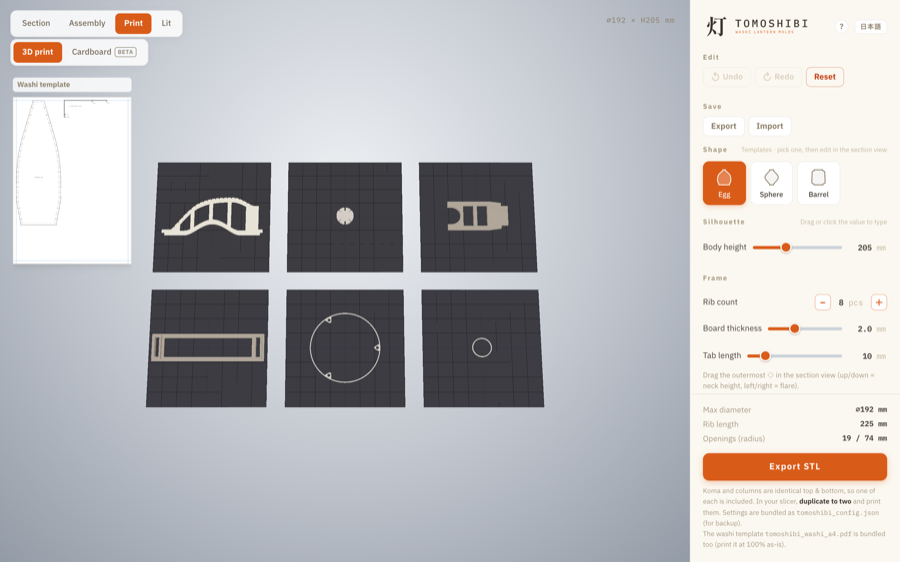
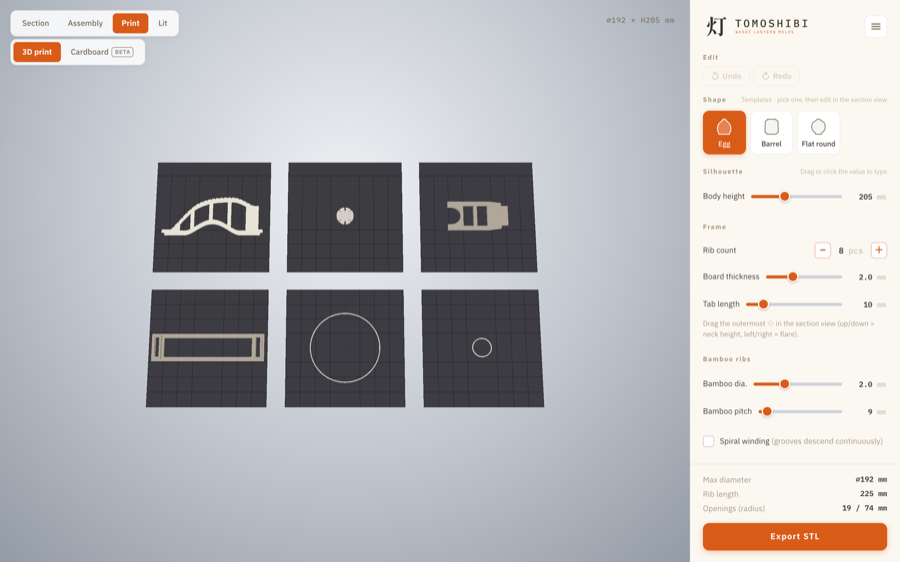
Retake the screenshots, and cut the README to what it still says truly
Every one of the four screenshots was from before the ☰: they showed a `Sphere`
preset that has been deleted, a `?` and a 日本語 toggle standing in the header,
Reset / Export / Import as buttons in the panel, the section legend inside the
drawing it explains, and a washi-template thumbnail the print view no longer
draws. Retaken at the same sizes; `lit.png` had not actually changed.

Four claims in the prose were wrong or stale for the same reason:

- the cardboard route prints the opening hoops too, as a line to bend 2mm wire
  along — it has not been "ribs + koma" since the hoops arrived;
- the first-visit card no longer explains that the shape on screen is the mold,
  because it now leads with the lantern instead;
- pages split downward ONLY, so a part wider than A4 does not fit at all, and
  the app says so — the README mentioned only the tall case;
- `/guide` is relative to wherever the app is mounted, not an absolute path.

The rest is trimming, and what went is mostly the app explaining itself twice:
twelve lines on how to bend a hanging wire, the washi template described in three
separate places, and the two beta routes as two sections with the same caveat at
the top of each. 186 → 162 lines.

Claude-Session: https://claude.ai/code/session_01Px4EQTXdB96zgTnwCMjzE9

diff --git a/README.md b/README.md
@@ -4,18 +4,16 @@
 
 # 灯 Tomoshibi — washi lantern molds
 
-A browser-based generator for the **3D-printable forming mold ("harigata")** used to
-build **washi paper lanterns** (paper lamps).
-
-Shape the lantern's silhouette parametrically in your browser, then export
-print-ready STL parts. No backend — everything runs client-side, and the build
-output is static files.
+A browser generator for the **3D-printable forming mold ("harigata")** that washi paper lanterns are
+built on. Shape the cross-section and it writes the print-ready STLs — or, with no printer, a
+full-scale A4 template for cutting the same mold out of cardboard. No backend: everything runs
+client-side and the build output is static files.
 
 > **灯 Tomoshibi** — 和紙提灯（紙のランプ）を自作するための
-> **3Dプリント用「張型（はりがた）」ジェネレーター**。ブラウザ上で断面を直接編集し、
-> 印刷用の STL を書き出せます。
+> **3Dプリント用「張型（はりがた）」ジェネレーター**。ブラウザ上で断面を編集すると STL が、
+> 3Dプリンタが無ければ原寸 A4 の段ボール型紙が出ます。
 
-**→ [Open the app](https://shunyakoide.github.io/tomoshibi/)** — nothing to install; it runs entirely in the browser.
+**→ [Open the app](https://shunyakoide.github.io/tomoshibi/)** — nothing to install.
 
 ![The section editor: an egg-shaped lantern profile with draggable control points, dimensions and a live rib outline](docs/screenshots/section.png)
 
@@ -30,26 +28,25 @@ output is static files.
 
 ## What it makes
 
-Real paper lanterns are made by **winding bamboo ribs around a mold, pasting washi
-over them, letting it dry, then disassembling the mold and pulling it out through the
-opening**. This app generates that mold as 3D-printable split parts.
+Real paper lanterns are made by **winding bamboo ribs around a mold, pasting washi over them,
+letting it dry, then taking the mold apart and pulling it out through the opening**. This app
+generates that mold as split parts you can make yourself.
 
 | Part | Role |
 | --- | --- |
-| **Rib (羽根板)** | The radial boards that form the mold surface (N of them, like orange segments). The outer edge carries the lamp-body curve and V-notch grooves for the bamboo ribs; both ends have tabs. |
-| **Koma / hub (コマ)** | Two identical gear-like hubs (top & bottom). Notches around the rim hold the rib tabs; the stand cradles them. |
-| **Stand (土台)** | A base that holds the assembled mold off the table with two U-shaped saddles, so it can be rotated while you work. |
-| **Opening rings (口輪)** | Thin flat hoops for the finished lantern's openings, which have no koma left in them, so the openings keep their shape. The **bottom one can carry leg sockets** (a checkbox, off by default) — three flat pads inside the hoop, each with a 6mm bore, for standing the finished lantern on legs of your own. Where the opening is too small for them it falls back to a plain hoop with a small tab on its inner rim, which tells the two apart once printed. |
+| **Rib (羽根板)** | The radial boards that form the mold surface (N of them, like orange segments). The outer edge carries the lamp-body curve and V-notch grooves for the bamboo; both ends have tabs. |
+| **Koma / hub (コマ)** | Two identical gear-like hubs, top and bottom. Notches around the rim hold the rib tabs. |
+| **Stand (土台)** | A base that holds the assembled mold off the table on two U-shaped saddles, so you can turn it while you work. 3D-print route only. |
+| **Opening rings (口輪)** | Thin hoops for the finished lantern's two openings, which keep their shape once the koma are gone. The **bottom one can carry leg sockets** (a checkbox, off by default): three pads with a ⌀6 bore, for legs you supply. Where the opening is too small for them it falls back to a plain hoop with a tab on its inner rim, which tells the two apart once made. |
 
 ### Features
 
-- **Direct-manipulation section editor** — drag control points to sculpt the silhouette; 3D preview and STL stay in exact agreement.
-- **A mold that comes back out** — a deep body on a small opening makes ribs too wide to pull out of the lantern they shaped, and every part still prints, fits the bed and is watertight. The app measures it and says so while you are still shaping the silhouette.
-- **Bamboo-rib grooves** — evenly spaced V-notches with barbs so the bamboo seats and won't slip.
-- **Spiral winding (螺旋巻き)** — optional mode that offsets grooves per rib so the bamboo forms one continuous descending helix. Each rib is then unique, so it's exported as a separate STL and **engraved with its serial number** (7-segment cut) so you can place them in order.
-- **Cardboard papercraft mode** (beta) — for those without a 3D printer: full-scale (1:1) A4 print pages to cut the ribs and koma hubs from cardboard. Notch widths follow the thickness you measured, so the parts still mesh.
-- **Washi template (和紙の型紙)** (beta) — the paper skin itself, developed flat: one rib-to-rib panel at full scale, so you cut the washi *before* pasting instead of trimming it after. Includes the side overlap, the cover allowance past the openings, and dashed guides for the rib lines and bamboo positions. It ships with whichever output you choose, as its own PDF inside that download.
-- **Build guide** — a step-by-step page at `/guide`, every step drawn from the same `geometry.ts` the STLs are written from. It runs past the mold — winding the bamboo, pasting the washi, drying, pulling the mold out, and putting a light in it — and lists what you supply yourself (bamboo, washi, paste, a razor, a lamp…), each one drawn. The drawings are of one example lantern rather than of your design, and no dimension is printed on the page: the method does not change with the shape. Print it straight from the browser if you want it on paper.
+- **Direct-manipulation section editor** — drag control points to sculpt the silhouette; the 3D preview and the STL stay in exact agreement.
+- **A mold that comes back out** — a deep body on a small opening makes ribs too wide to pull out of the lantern they shaped. The app measures that while you are still shaping the silhouette, along with whether every part fits your bed.
+- **Bamboo-rib grooves** — evenly spaced V-notches with barbs so the bamboo seats and won't slip. Optional **spiral winding (螺旋巻き)** offsets them per rib into one continuous helix; each rib is then unique, so it exports as its own STL engraved with its serial number.
+- **Cardboard route** (beta) — no 3D printer needed: full-scale A4 pages to cut the mold from cardboard.
+- **Washi template (和紙の型紙)** (beta) — the paper skin developed flat, one rib-to-rib panel at full scale, so you cut the washi *before* pasting instead of trimming it after. It ships with whichever route you pick.
+- **Build guide** — a step-by-step page of its own (`/guide`, under wherever the app is mounted), drawn from the same `geometry.ts` the STLs are, running past the mold to winding, pasting, drying, pulling the mold out and lighting it.
 - **English / Japanese UI** — a row in the ☰ menu. Both templates print in the language the app is showing.
 - **Watertight by construction** — every exported part is a closed manifold, verified by an automated sweep (see [CONTRIBUTING](CONTRIBUTING.md)).
 
@@ -65,97 +62,75 @@ npm run build      # production build into dist/
 npm run preview    # preview the built output on http://localhost:8174
 ```
 
-Requires **Node.js 22.18+** (or 24+). The check scripts are TypeScript run directly by
-`node`, which strips types without a flag from that version on; Node 20 reached end of
-life in April 2026. An older Node fails at `npm install` rather than degrading.
+Requires **Node.js 22.18+** (or 24+). The check scripts are TypeScript run directly by `node`, which
+strips types without a flag from that version on. An older Node fails at `npm install` rather than
+degrading.
 
 ---
 
 ## Using it
 
-- **View tabs** — switch between **Section / Assembly / Print / Lit**. (The build guide is a page of its own, at `/guide`, opened from the **☰** menu.)
-- **Right panel** — pick a preset, then drag the section's control points to reshape; the sections below (Frame, Bamboo ribs, Washi, Print bed…) hold the finer settings.
-- **Preview** — drag to orbit, wheel / pinch to zoom.
-- **Export** — the Print view downloads a ZIP of every part as separate STLs, plus a `tomoshibi_config.json` backup of your design. (STL compresses well: a default kit is about 190 KB zipped.)
-- **If you're lost** — a card on your first visit says what the object on screen actually is (the mold, not the lantern); the **☰** menu's first row reopens it any time. The legend at the top-right of the section view redraws the ◇ marks themselves, and follows the edit mode you are in.
+- **View tabs** — **Section / Assembly / Print / Lit**, all four rendered from the design in front of you.
+- **Right panel** — pick a preset, then drag the section's control points; the sections below (Frame, Bamboo ribs, Washi, Print bed…) hold the finer settings.
+- **Export** — the Print view downloads the whole kit as one ZIP, with a `tomoshibi_config.json` backup of your design in it. (STL compresses well: a default kit is about 190 KB zipped.)
+- **☰ menu** — the intro card, the build guide, the language, backup save / restore, reset, and a link to this repository.
 
-### From print to lantern
+### From mold to lantern
 
-1. Print the parts. Push the rib tabs into the two koma hubs' notches.
+1. Make the parts. Push the rib tabs into the two koma hubs' notches.
 2. Set the assembly on the stand.
 3. Wind bamboo ribs into the outer-edge grooves; paste washi paper over them.
 4. Let it dry, then pull the koma out (toward the tab side) and slip the ribs out through the openings.
-5. Glue the opening rings into the top & bottom openings — the bottom one is the one with the leg sockets, or, if you left those off, the one with the small tab on its inner rim.
-   Then fit your own light.
+5. Glue the opening rings into the two openings, and fit your own light.
 
-> **制作フロー**: 印刷 → コマ2枚のノッチに羽根板を差し込む → 溝に竹ひごを巻く → 糊＋和紙を
+> **制作フロー**: 出力 → コマ2枚のノッチに羽根板を差し込む → 溝に竹ひごを巻く → 糊＋和紙を
 > 張る → 乾燥 → コマを外し羽根板を開口から抜く → 火袋の完成 → 口輪を貼る → 照明化。
 
-The app says the same thing on its **build guide** page — every step drawn, and a list of what you
-supply yourself (bamboo, washi, paste, a razor, a lamp) drawn beside it. The drawings are of one
-example lantern rather than of your design, and the page prints no dimensions at all: the method
-does not change with the shape. The last step gives the **three ways to light it** — cover a lamp
-stood on the floor, hang it from a pendant cord, or add legs and fix the lamp in from below — each
-drawn, and the third only where the bottom ring has the leg sockets to take it. The two that need a
-fitting are worked through in numbered sub-steps of their own, and neither needs anything you have
-to print — a length of wire does both. On legs: bend a loop in the end of three wires, stack them on the lamp
-holder's threaded stem and tighten its nut, and the lamp and its legs come off the bench as one
-piece. Hanging: bow one wire into a shallow arch with a U in the middle, drop the cord into the U — its
-gap passes the cord and stops the socket — and run the wire's two ends under the rim of the top
-opening and out past it.
+The app's **build guide** (☰ → How to build it) walks the same route with every step drawn, lists
+what you supply yourself, and ends with three ways to light it: cover a lamp standing on the floor,
+hang it from a pendant cord, or add legs and fix the lamp in from below.
 
-### No 3D printer? Use cardboard (beta)
+### The two beta routes
 
-> **This route is still in development.** Its dimensions come from the same functions as the
-> printed parts and are checked automatically, but far fewer people have actually built a mold
-> this way, so expect rough edges — and please open an issue if something doesn't fit.
+> Both are checked automatically against the same geometry as the printed parts, but far fewer
+> people have built anything this way. Expect rough edges, and please open an issue if something
+> doesn't fit.
 
-The Print view downloads a ZIP of two full-scale A4 PDFs: the mold's template
-(`tomoshibi_katagami_a4.pdf`) and the washi one (`tomoshibi_washi_a4_beta.pdf`). Measure your
-cardboard and enter its thickness — the koma notches are cut to it, so the ribs push in
-and hold with no glue or hardware. It prints the mold itself (ribs + koma); stand it on
-whatever is to hand. Grooves are not cut — you can't carve a 0.5 mm V-notch into
-cardboard — so the outer edge is a smooth curve with dashed ticks marking where each
-bamboo rib goes. A part too tall for one page continues on the next: cut both sheets on
-the blue frame, butt the cut edges so the coded half-diamonds close into ◇, and tape from
-behind. One sheet carries an L-shaped check square (3in across, 3cm down) — measure it
-with a ruler, and make sure your printer prints at 100% (not "fit to page").
+**Cardboard** needs no printer, only a blade and a ruler. The Print view downloads two full-scale
+A4 PDFs — the mold (`tomoshibi_katagami_a4.pdf`) and the washi one — and you enter the thickness you
+measured, so the koma notches are cut to it and the ribs push in with no glue or hardware. The sheet
+carries the ribs, the koma, and the two opening hoops as a blue line to **bend 2mm wire along, not to
+cut**. There is no stand: stand the mold on whatever is to hand. Grooves are not cut either — you
+can't carve a 0.5 mm V-notch into cardboard — so the outer edge is a smooth curve with dashed ticks
+marking where each bamboo rib goes. Print at **100%**, never "fit to page"; one sheet carries a check
+square to measure with a ruler. A part too tall for a page continues on the next (cut both on the
+blue frame, butt the edges so the coded half-diamonds close into ◇, tape from behind), but pages only
+split downward, so a part wider than A4 does not fit at all — the app says so before you print.
 
-### Cutting the washi first (beta)
-
-> **Still being verified.** Flattening a doubly-curved surface is approximate by nature (see the
-> panel size the app reports), and how much a damp sheet takes up is still being checked against
-> real builds. Cut one panel and offer it up before you cut them all.
-
-Trimming the washi after it is pasted is the fiddliest part of the build, and a torn wet
-edge shows. The app also gives you a full-scale template of one panel — the surface between two
-adjacent ribs, developed flat. Slip it under the washi (it is translucent), trace it, and
-cut all N panels before you paste anything. Its length is the length **along the curve**,
-not the body height, so it reaches the openings exactly.
-
-It is not a separate download: the panel's allowances live in the **Washi** section of the
-side panel, and the template itself comes with whichever output you pick — as
-`tomoshibi_washi_a4_beta.pdf` inside that route's ZIP, next to the STLs or next to the mold's
-own template. The PDF is written directly by the app — no dependencies — and it prints in
-whichever language the app is set to.
+**The washi template** is a full-scale drawing of one panel: the surface between two adjacent ribs,
+developed flat, with the side overlap and the allowance that folds over the openings. Slip it under
+the washi, trace it, and cut all N panels before you paste anything — trimming a pasted, wet edge is
+the fiddliest part of the build and it shows. Its length is the length **along the curve**, not the
+body height. Flattening a doubly-curved surface is approximate by nature, so cut one panel and offer
+it up before cutting them all.
 
 ---
 
 ## Tech stack
 
-Minimal by design — Vite + React 19 + three.js, plus fflate for the export ZIP, written
-in TypeScript. The geometry is pure functions returning three.js
-`Shape`/`ExtrudeGeometry`, shared by both the 2D section drawing and the STL export, so
-what you see is exactly what you print.
+Minimal by design — Vite + React 19 + three.js, plus fflate for the export ZIP, in TypeScript. The
+PDFs are written by the app itself, with no dependency. The geometry is pure functions returning
+three.js `Shape`/`ExtrudeGeometry`, shared by the 2D section drawing, the 3D preview, the STL and
+both templates, which is what makes what you see what you print.
 
 ## Contributing
 
-Geometry changes must stay **watertight**. See [CONTRIBUTING.md](CONTRIBUTING.md) for the
-dev setup, the verification gates (`npm run lint` / `typecheck` / `check:manifold` / `check:hash` /
-`check:persist` / `check:paper` / `check:glyphs` / `check:i18n` / `check:style`), and the design invariants to preserve.
-CI runs all of them on every push and pull request except `check:hash`, which needs a before
-and an after and so is run locally around a change meant to leave the STL identical. The design decisions behind the mold — the part
-roles, the print-fit invariants, why each shape is the shape it is — are in
+Geometry changes must stay **watertight**. See [CONTRIBUTING.md](CONTRIBUTING.md) for the dev setup
+and the verification gates (`lint` / `typecheck` / `check:manifold` / `check:hash` / `check:persist` /
+`check:paper` / `check:glyphs` / `check:i18n` / `check:style`). CI runs all of them on every push and
+pull request except `check:hash`, which needs a before and an after and so is run locally around a
+change meant to leave the STL identical. The design decisions behind the mold — the part roles, the
+print-fit invariants, why each shape is the shape it is — are in
 [docs/design-notes.md](docs/design-notes.md).
 
 ## License
@@ -166,21 +141,22 @@ roles, the print-fit invariants, why each shape is the shape it is — are in
 
 ## 日本語（概要）
 
-現実の提灯づくりの工程は「**型に竹ひごを巻く → 和紙を貼る → 乾いたら型をばらして抜く**」。
-その型を分割部品として 3D プリントするのが本アプリです。出力パーツ:
+提灯づくりの工程は「**型に竹ひごを巻く → 和紙を貼る → 乾いたら型をばらして抜く**」。
+その型を分割部品として出力するのが本アプリです。
 
 - **羽根板** — 型の面を作る放射状の板（N枚）。外縁に竹ひご用の V 溝、両端に爪。
 - **コマ** — 爪を束ねる歯車状のハブ（上下2個）。
-- **土台** — コマを U 字サドルで受けて型を宙に浮かせ、回しながら作業できる台。
+- **土台** — コマを U 字サドルで受けて型を宙に浮かせ、回しながら作業できる台（3Dプリントのみ）。
 - **口輪** — 完成した提灯の開口に貼る薄い平リング（完成品にコマは残らないため）。開口の形を保つ。
-  下側は輪の内側に脚ソケット（3ヶ所の平パッド＋⌀6の穴）を付けられる。完成品を脚で立てるための受けで、脚は各自で用意する。
-  開口が小さくソケットが入らない場合は、内ふちに小さな出っ張りを付けた輪のみになる（上下の見分け用）。
+  下側は輪の内側に脚ソケット（3ヶ所の平パッド＋⌀6の穴）を付けられる。開口が小さく入らない場合は、
+  内ふちに小さな出っ張りを付けた輪のみになる（上下の見分け用）。段ボールでは針金(2mm)を曲げる線として出力。
 
-**特長**: 断面の直接編集 / 竹ひご溝（螺旋巻きにも対応・羽根に通し番号を刻印）/
-3Dプリンタが無くても作れる段ボール型紙（原寸 A4・**開発中/beta**）/ 貼る前に切るための和紙の型紙（原寸 A4・**検証中/beta**）/ 英日 UI 切替 /
+**特長**: 断面の直接編集 / 竹ひご溝（螺旋巻き対応・羽根に通し番号を刻印）/
+3Dプリンタが無くても作れる段ボール型紙（原寸 A4・**開発中/beta**）/
+貼る前に切るための和紙の型紙（原寸 A4・**検証中/beta**）/ 作り方ページ / 英日 UI 切替 /
 全パーツ水密（自動スイープで検証）。
 
-**使い方**: 上部タブで **断面/組立/印刷/点灯** を切替、右パネルで断面の制御点をドラッグして
-形を調整、印刷ビューから全パーツの STL（ZIP）を書き出し。初回に出る案内カードは
-ヘッダーの **☰** メニューからいつでも開き直せます。作り方は上記「From print to lantern」を参照。
-ライセンスは [MIT](LICENSE)。アプリは **[こちら](https://shunyakoide.github.io/tomoshibi/)**（インストール不要・ブラウザのみで動作）。
+**使い方**: 上部タブで **断面/組立/印刷/点灯** を切替、右パネルで断面の制御点をドラッグして形を調整、
+印刷ビューから一式を ZIP で書き出し。作り方・言語・バックアップ・ソースコードへのリンクは
+ヘッダーの **☰** メニューに。ライセンスは [MIT](LICENSE)。
+アプリは **[こちら](https://shunyakoide.github.io/tomoshibi/)**（インストール不要・ブラウザのみで動作）。
